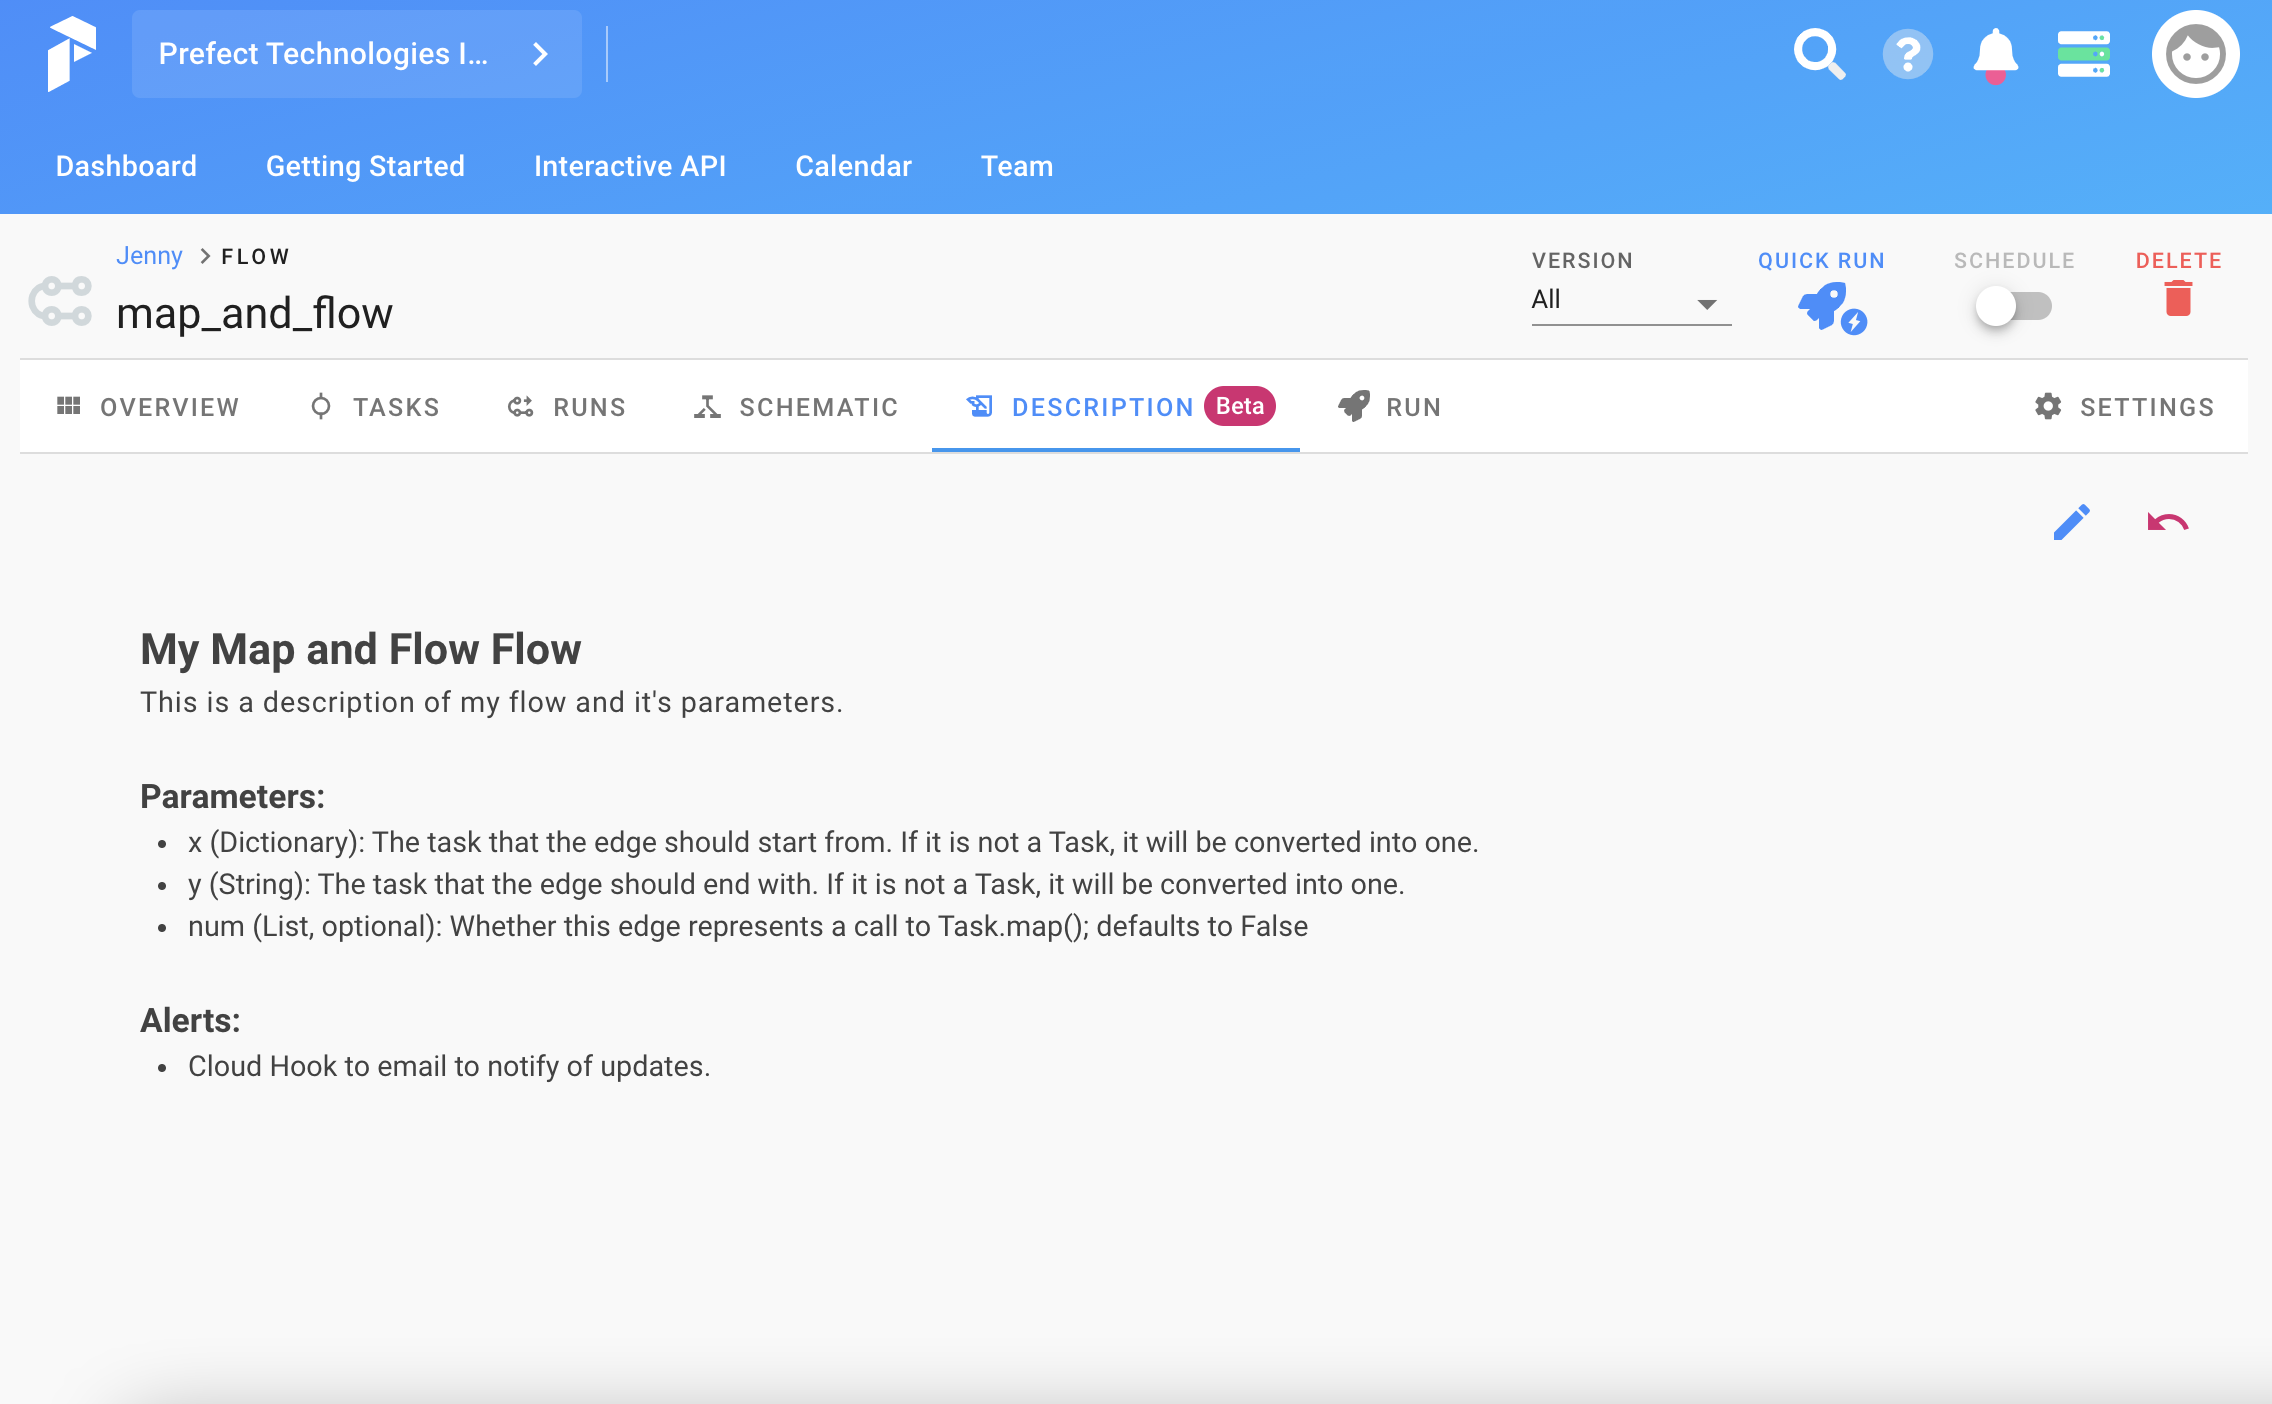
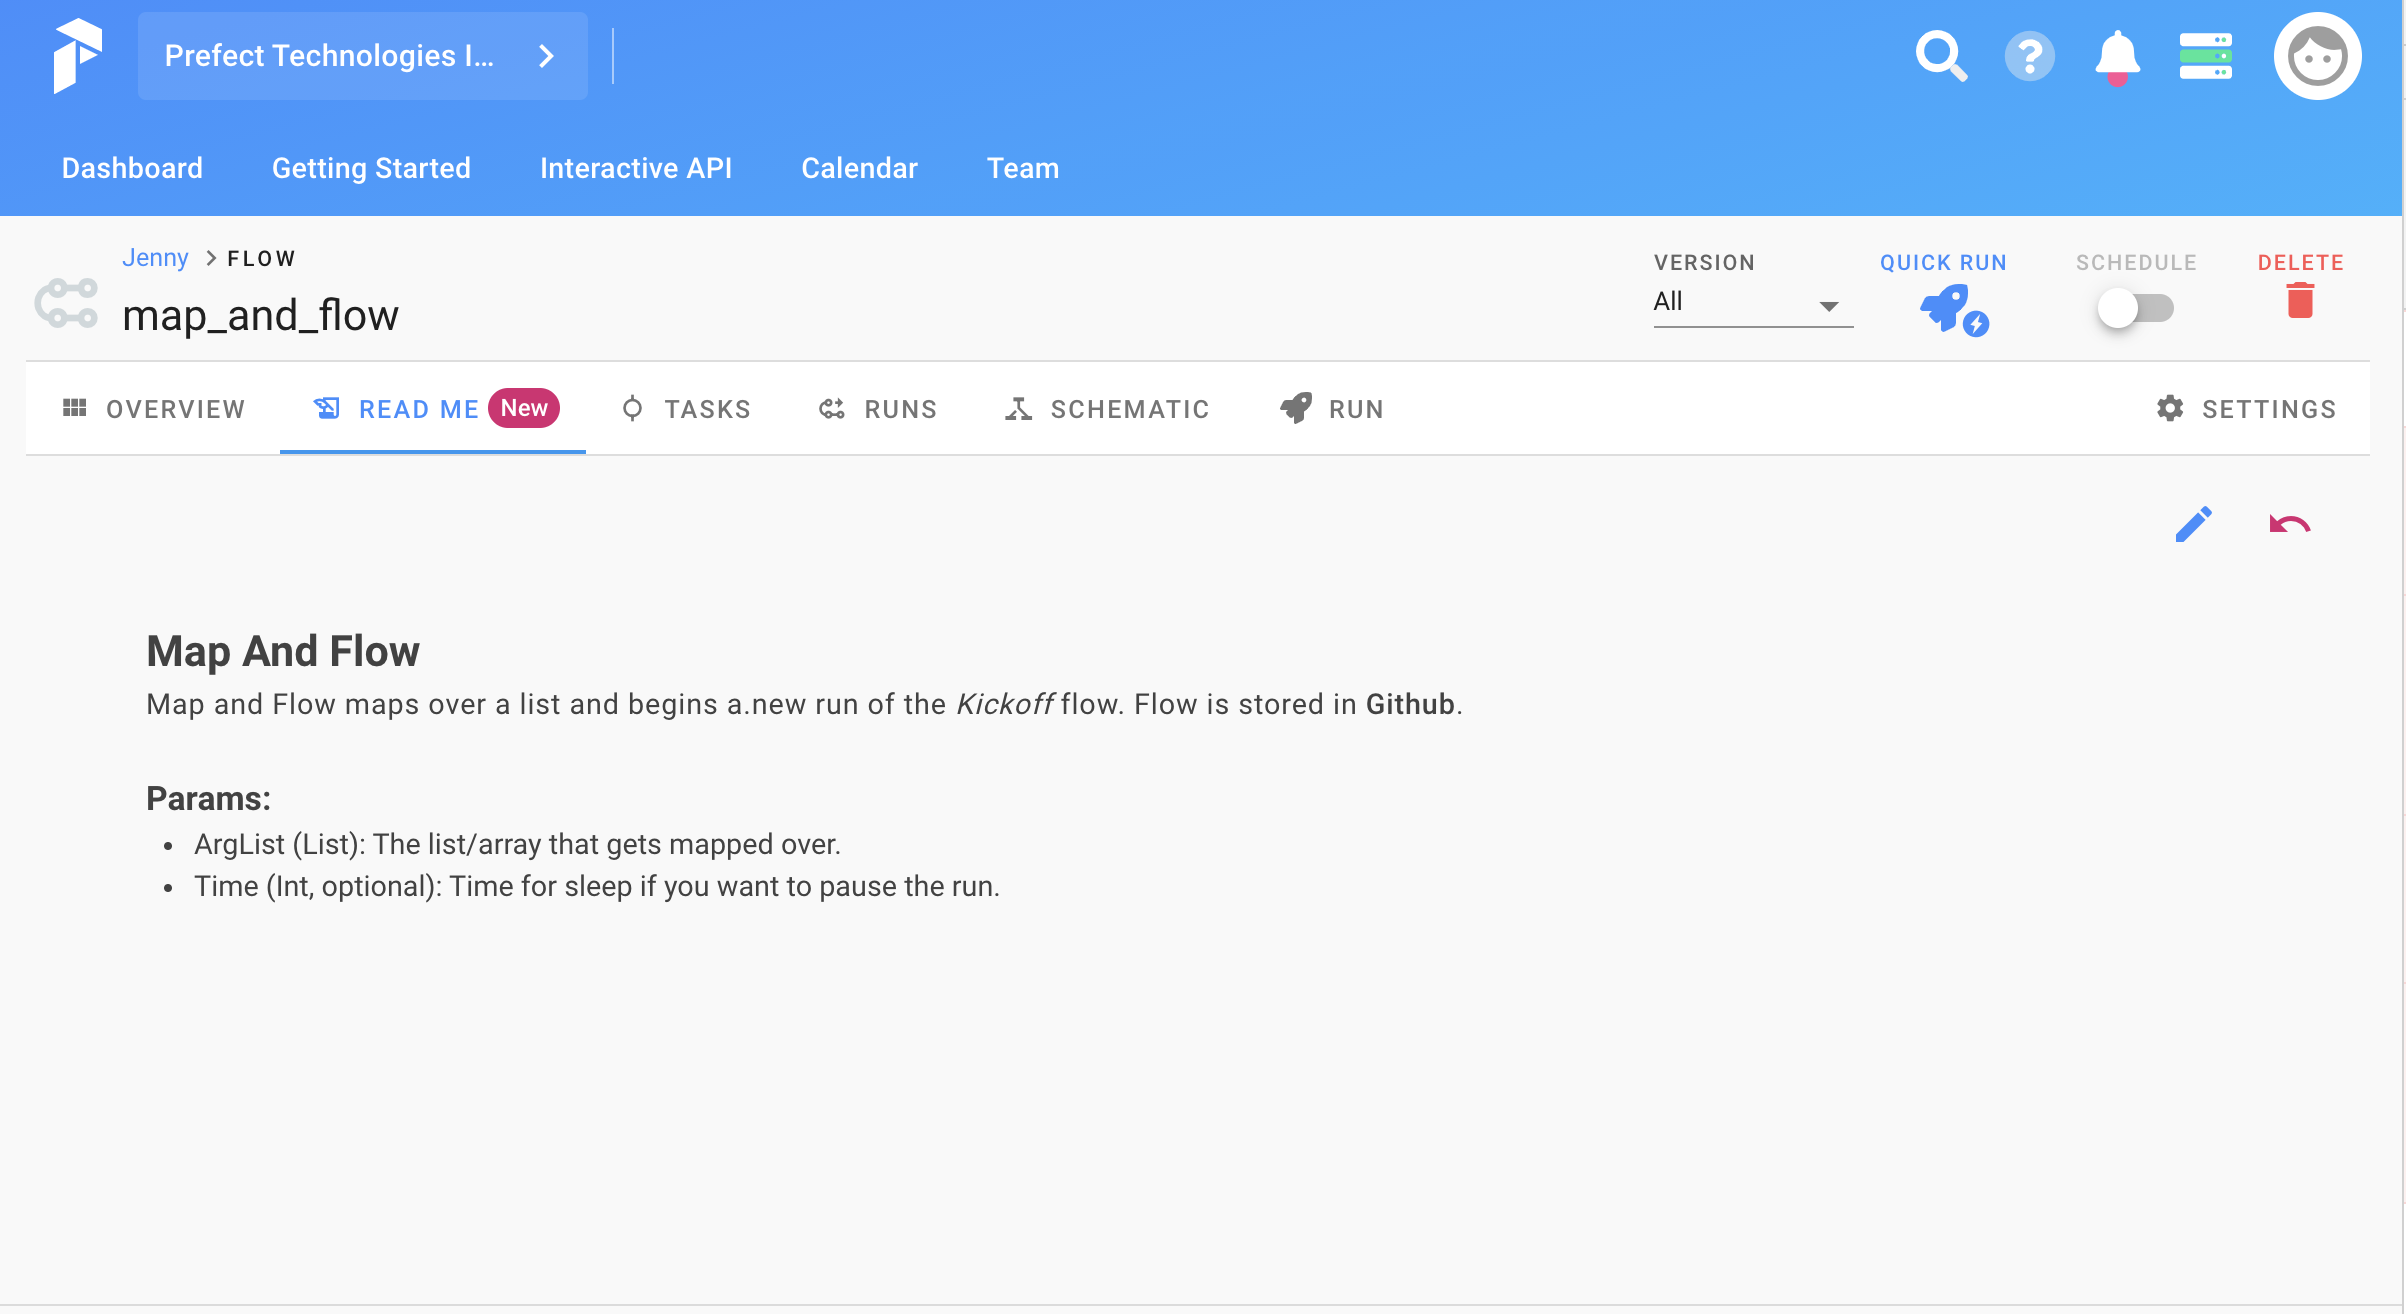
switch description to read me

diff --git a/docs/orchestration/ui/flow.md b/docs/orchestration/ui/flow.md
@@ -16,11 +16,14 @@ In the details tile of the flow overview, you can add and remove flow group labe
 The flow schematic shows an interactive overview of all the tasks in the flow and their dependency structure.
 ![](/orchestration/ui/flow-schematic.png)
 
-## Description
+## Read Me
 
-You can use markdown to add a description or documentation for your flow group in the flow description tab.  When you update the description in the UI, it updates the description for all flows.  
+You can use markdown to add a Read Me description for your flow group in the flow Read Me tab.  When you update the Read Me in the UI, it updates the description for all versions of your flow.  
 
-![](/orchestration/ui/flow-description.png)
+<div class="add-shadow">
+  <img src="/orchestration/ui/flow-description.png">
+</div>
+
 ## Run
 
 From this page, you can schedule a new run of your flow. You may provide parameter values, if appropriate, and give your run a name for easy queries or retrieval in the future.
